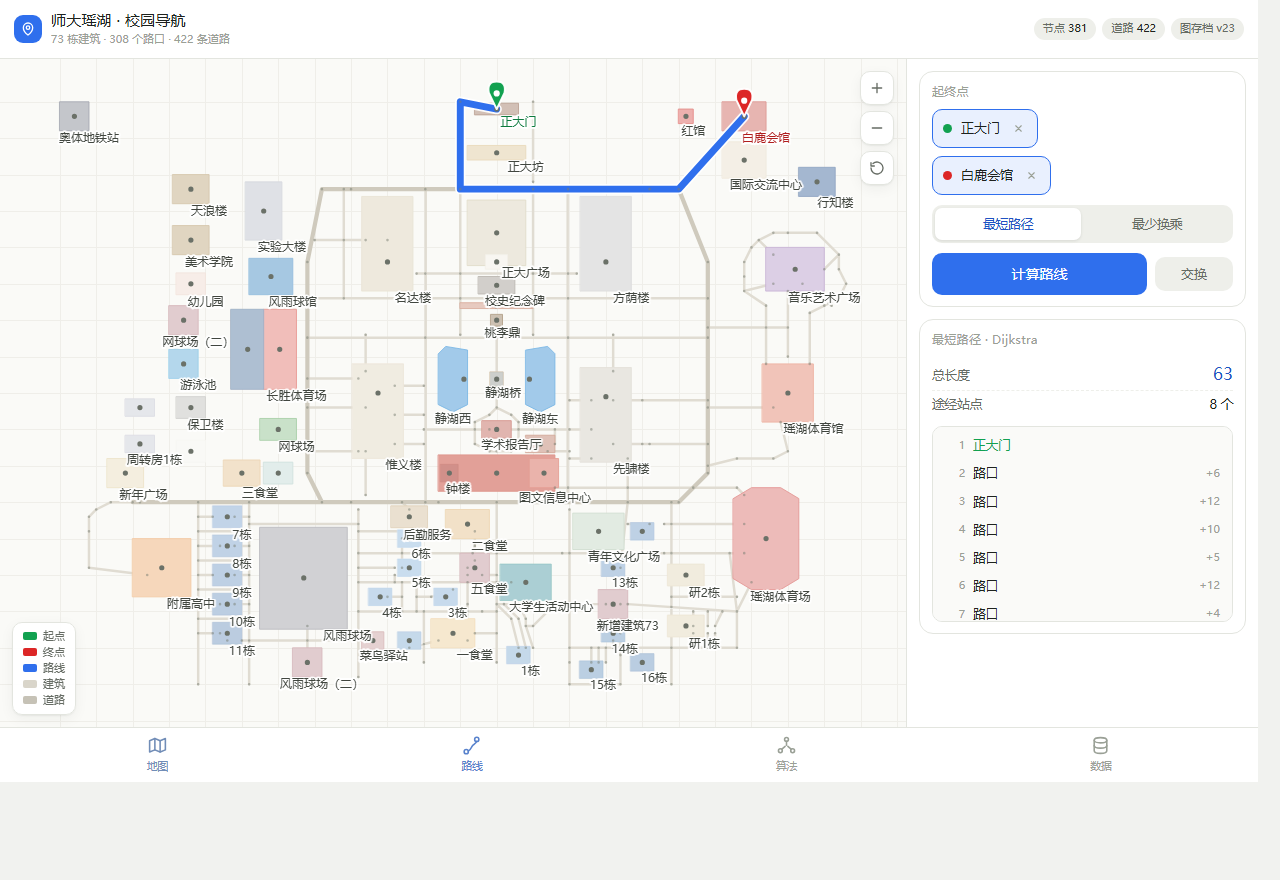
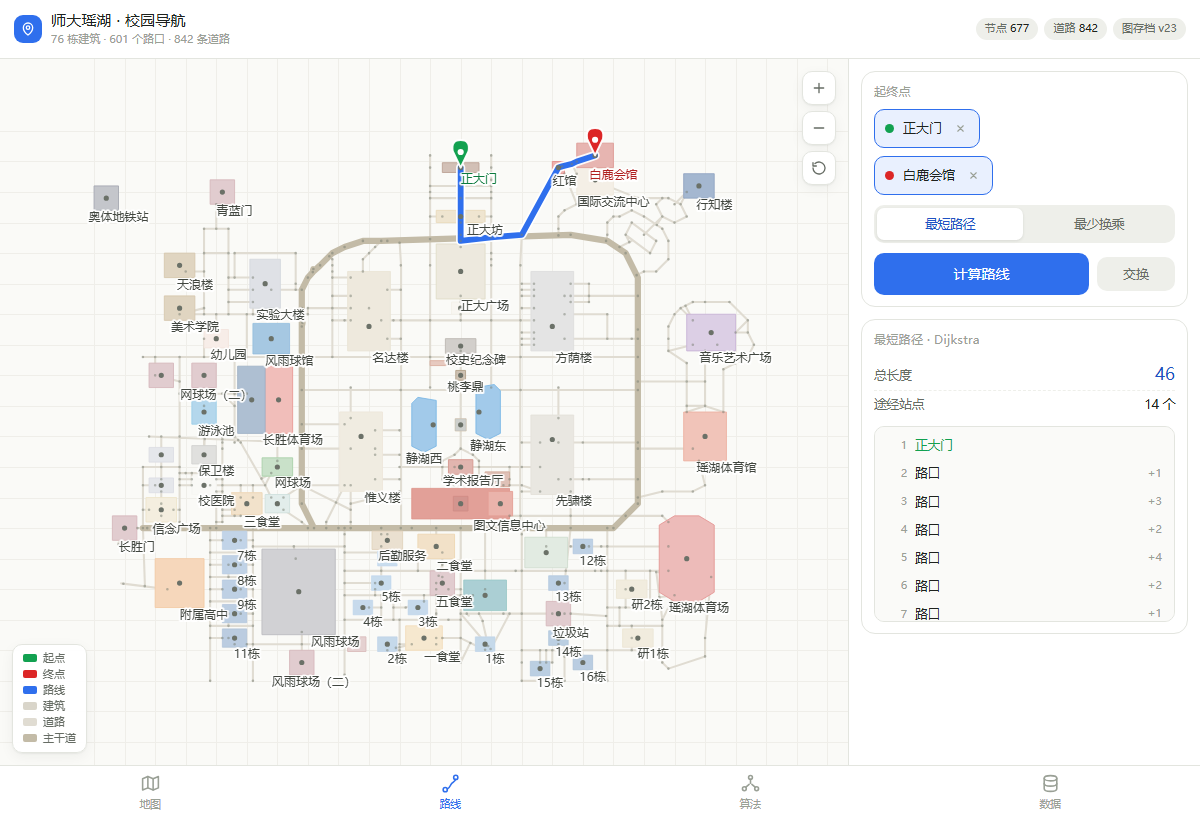
时效性检查：重截全部界面图、精确化规模数字、标注 exe 与旧报告
- 截图全部重生成（原图是 9/26 的旧版：73 栋建筑 / 381 节点；现为 76 / 677）
  用 Edge 无头模式 + 网页深链（#tab=algo&run=prim 等）生成 8 张，含最少换乘与 Prim
  docs/screenshots 扩到 4 张（地图 / 路线 / 最少换乘 / Prim）
- 规模数字精确化：76 栋建筑、677 节点（76 地点 + 601 路网节点）、842 条道路
- 标注 campus.exe 构建于 2026-10-25，可能落后于 main.c（11-06），建议自行编译
- 注明 osm_export 三份报告是 9-25 的处理记录（73 栋时期），仅作来源凭证
- 移出「问题对接清单_2026-09-28.md」：基于第 20 轮旧基线，与当前数据矛盾

diff --git a/README.md b/README.md
@@ -1,10 +1,13 @@
 # 师大瑶湖 · 校园导航
 
 基于 **C + OpenGL (freeglut)** 的三维校园导航程序，配套一份同源网页版。
-覆盖校园 76 栋建筑、677 个道路节点，支持最短路径、最少换乘、最小生成树与图遍历演示。
+覆盖校园 **76 栋建筑、677 个节点（76 个地点 + 601 个路网节点）、842 条道路**，
+支持最短路径、最少换乘、最小生成树与图遍历演示。
 
 ![三维校园地图](docs/screenshots/map.png)
 ![路线面板](docs/screenshots/route.png)
+![最少换乘（BFS）](docs/screenshots/transfer.png)
+![Prim 最小生成树](docs/screenshots/algo.png)
 
 ---
 
@@ -33,6 +36,10 @@
 campus.exe          需要同目录下的 libfreeglut.dll
 ```
 
+> ⚠ 仓库里的 `campus.exe` 构建于 **2026-10-25**，之后 `main.c` 仍有改动，
+> 因此二进制可能落后于源码。想要最新行为请按下面的命令自行编译；
+> 网页版 `web/index.html` 的数据是最新的（2026-11-06）。
+
 **自己编译（MinGW-w64 示例）**
 
 ```bash
@@ -48,7 +55,7 @@ gcc main.c -o campus.exe -O2 -mwindows \
 | 文件 | 内容 |
 | --- | --- |
 | `map.txt` | `VERSION 1` / `BUILDINGS 76`，每行一栋建筑：名称、坐标、高度、RGB、顶点数与多边形顶点 |
-| `road_data.txt` | `VERSION 23` / 节点数 677，先列节点（id、名称、坐标），再列道路边与权重 |
+| `road_data.txt` | `VERSION 23` / 节点数 677（76 个地点 + 601 个路网节点）、842 条边；先列节点（id、名称、坐标），再列边与权重 |
 | `map_bak1.txt` / `map_bak2.txt` | 备用地图（程序内可切换） |
 | `osm_export/` | 原始测绘数据与比对报告（见下方署名） |
 
@@ -61,6 +68,9 @@ gcc main.c -o campus.exe -O2 -mwindows \
 - 若基于该数据发布衍生数据库，需以相同许可（ODbL）开放
 
 取数时间 2026-09-25，方式为 Overpass API。详见 `osm_export/NOTICE.txt`。
+
+> `osm_export/` 里的三份报告（对比 / 补全 / 定位）是**当时的数据处理记录**，
+> 反映的是 73 栋建筑的中期状态；此后地图已补全到 76 栋，报告内容未再更新，仅作来源凭证保留。
 
 > 换言之：**代码**你可以自行决定许可；但**地图数据**受 ODbL 约束，转载或再分发时要保留署名。
 
